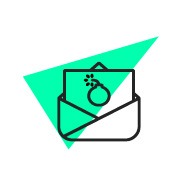
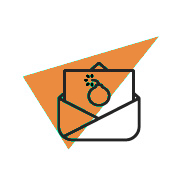
Change all green colors to orange colors. Modified head attributes in index.html

Changed region(s): [[0.1105, 0.1934, 0.884, 0.8287]]

diff --git a/index.html b/index.html
@@ -1,19 +1,14 @@
 <!DOCTYPE html>
-<html lang="zh-TW">
+<html lang="es-AR">
 <head>
     <meta charset="UTF-8">
     <meta name="viewport" content="width=device-width, initial-scale=1, shrink-to-fit=no">
-    <title>Bootstrap Template Atlas</title>
-    <meta name="description" content="Free bootstrap template Atlas">
+    <title>Next Innovation Lab</title>
+    <meta name="NIL Landing Page" content="Next Innovation Lab Landing Page">
     <link rel="icon" href="img/favicon.png" sizes="32x32" type="image/png">
-    <!-- custom.css -->
     <link rel="stylesheet" href="css/custom.css">
-    <!-- bootstrap.min.css -->
     <link rel="stylesheet" href="css/bootstrap.min.css">
-	<!-- font-awesome -->
     <link rel="stylesheet" href="font-awesome-4.7.0/css/font-awesome.min.css">
-    
-    <!-- AOS -->
     <link rel="stylesheet" href="css/aos.css">
 </head>
 
@@ -32,14 +27,14 @@
                 </div>
             </header>
             <h1 data-aos="fade" data-aos-easing="linear" data-aos-duration="1000" data-aos-once="true" class="display-3 text-white font-weight-bold my-5">
-            	A New Way<br>
-            	To Start Business
+            	Innovando<br>
+            	Ágilmente!
             </h1>
             <p data-aos="fade" data-aos-easing="linear" data-aos-duration="1000" data-aos-once="true" class="lead text-white my-4">
                 Lorem ipsum dolor sit amet, id nec enim autem oblique, ei dico mentitum duo.
                 <br> Illum iusto laoreet his te. Lorem partiendo mel ex. Ad vitae admodum voluptatum per.
             </p>
-            <a href="#" data-aos="fade" data-aos-easing="linear" data-aos-duration="1000" data-aos-once="true" class="btn my-4 font-weight-bold atlas-cta cta-green">Get Started</a>
+            <a href="#" data-aos="fade" data-aos-easing="linear" data-aos-duration="1000" data-aos-once="true" class="btn my-4 font-weight-bold atlas-cta cta-orange">Get Started</a>
         </div>
     </div>
     <!-- three-blcok -->
@@ -122,7 +117,7 @@
                     <li>25 team Members</li>
                     <li>Limited Support</li>
                 </ul>
-                <a href="#" class="btn my-4 font-weight-bold atlas-cta cta-green">Get Free</a>
+                <a href="#" class="btn my-4 font-weight-bold atlas-cta cta-orange">Get Free</a>
             </div>
             <div data-aos="fade-left" data-aos-delay="200" data-aos-duration="1000" data-aos-once="true" class="col-md-4 text-center py-4 mt-5">
                 <h4 class="my-4">PROFESSIONAL</h4>
@@ -194,7 +189,7 @@
 	                        <label for="message">Message</label>
 	                        <textarea class="form-control" id="message" rows="3"></textarea>
 	                    </div>
-                        <button type="submit" class="btn font-weight-bold atlas-cta atlas-cta-wide cta-green my-3">Submit</button>
+                        <button type="submit" class="btn font-weight-bold atlas-cta atlas-cta-wide cta-orange my-3">Submit</button>
                     </form>
                 </div>
             </div>

diff --git a/css/custom.css b/css/custom.css
@@ -34,14 +34,14 @@ button {
     width: 100%;
 }
 
-.cta-green {
-    background: #00FFAD;
+.cta-orange {
+    background: #EA8F44;
     color: #192440;
 }
 
-.cta-green:hover {
+.cta-orange:hover {
     color: #ffffff;
-    background: #00e69c;
+    background: #EA8F44;
 }
 
 .cta-blue {
@@ -84,11 +84,12 @@ button {
 }
 
 #feature-first {
-    background: linear-gradient(168deg, #ffffff 55%, #00FFAD 0);
+    background: linear-gradient(168deg, #ffffff 55%, #ec971f 0);
 }
 
 #feature-last {
-    background: #00FFAD;
+   /* background: #00FFAD;*/
+    background: #ec971f;
 }
 
 /********** price table **********/
@@ -116,13 +117,13 @@ button {
 }
 
 #contact form {
-    color: #00FFAD;
+    color: #EA8F44;
 }
 
 #contact form input,
 #contact form textarea {
     background: transparent;
-    border: 1px solid #00FFAD;
+    border: 1px solid #EA8F44;
     color: #ffffff;
 }
 
